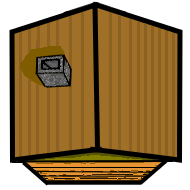
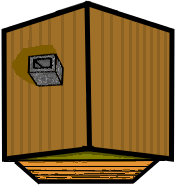
Cabin Asset Impliment

Changed region(s): [[0.0, 0.0, 1.0, 1.0]]

diff --git a/site/js/assets/camp_assets.js b/site/js/assets/camp_assets.js
@@ -8,4 +8,4 @@
 ////////////////////////////////////////////////////////////////////////////////
 
 // Cabin
-GameAsset.cabin = new GameAsset(4, 3, false);
+GameAsset.cabin = new GameAsset(3,3, false, "assets/graphics/cabin1.png");
